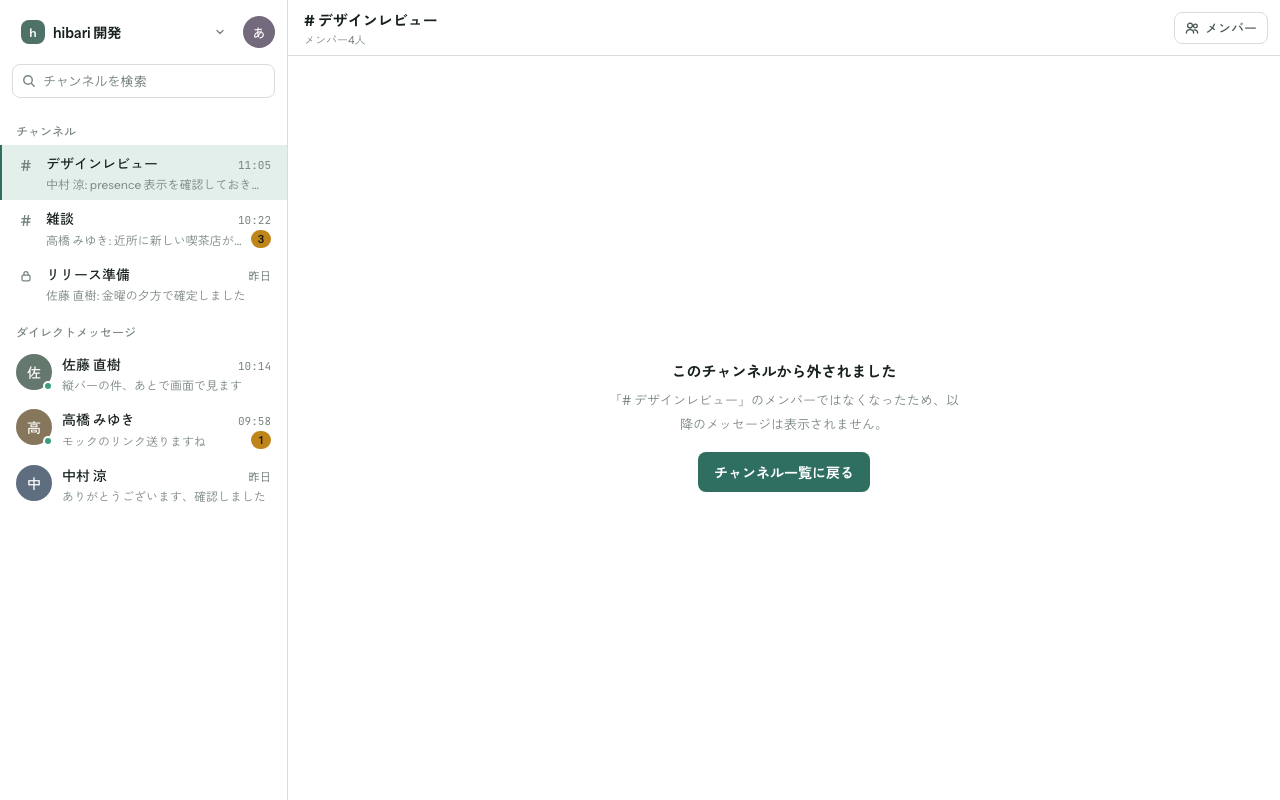
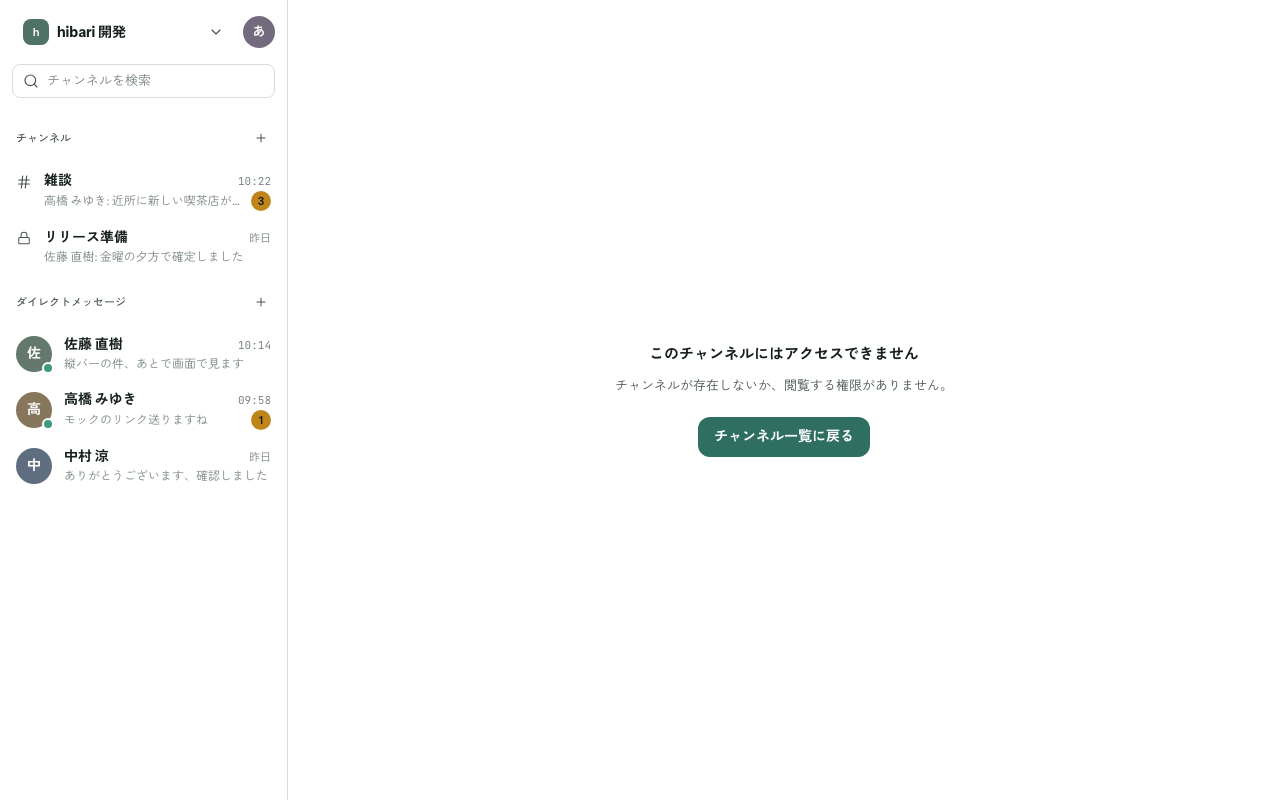
feat(web): 非公開チャンネルから外されたときは名前を出さずに「アクセスできません」だけを出す
外されたことも、チャンネルの名前も言わない（Slack と同じ。読めない非公開ルームを 404 で存在しないものと区別しない
ADR 0011 とも揃う）。ヘッダーごと出さず、メンバーのパネルも閉じ、サイドバーからは開いていてもすぐに消す。

ADR 0035（ADR 0026 の該当部分を置き換える）。chat/removed-from-channel.png は実装から撮り直した。

diff --git a/web/lib/chat/store.ts b/web/lib/chat/store.ts
@@ -118,7 +118,8 @@ export type ChatState = {
   /** ルームごとの、確定していない自分のメッセージ。入力した順（送る順）に並ぶ。 */
   outgoing: Record<string, OutgoingMessage[] | undefined>;
   /**
-   * 自分が外されたルーム（非公開と DM）。開いている間は一覧に残して「外されました」を出す（chat/removed-from-channel.png）。
+   * 自分が外されたルーム（非公開と DM）。一覧からはすぐに消し、開いている間だけ「アクセスできません」を出すために覚えておく
+   * （chat/removed-from-channel.png。ADR 0035）。
    * public ルームは参加していなくても読めるので、ここには入れず、参加していない状態に戻すだけ。
    */
   removedRooms: Record<string, RemovalReason | undefined>;
@@ -694,8 +695,8 @@ export function createChatStore(
     }));
     // もう投稿できない。送信中のものは届かず、再送もできない
     dropOutgoing(roomId);
-    // 開いているルームは、「外されました」を出している間だけ一覧に残す（離れたら setFocus が消す）
-    if (state.focus?.roomId !== roomId) patchRoomList(workspaceId, (ids) => ids.filter((id) => id !== roomId));
+    // 開いていても一覧からはすぐに消す。名前も含めて、もう見せてよいものではない（ADR 0035）
+    patchRoomList(workspaceId, (ids) => ids.filter((id) => id !== roomId));
   }
 
   function removedFromWorkspace(workspaceId: string, reason: RemovalReason) {
@@ -859,12 +860,8 @@ export function createChatStore(
       try {
         const { rooms } = await api.listRooms(workspaceId);
         for (const room of rooms) putRoom(room);
-        update((s) => {
-          // 「外されました」を出しているルームは、一覧を取り直しても開いている間は残す
-          const kept = s.roomLists[workspaceId]?.ids.filter((id) => s.removedRooms[id] && s.focus?.roomId === id) ?? [];
-          const ids = [...rooms.map((r) => r.id), ...kept.filter((id) => !rooms.some((r) => r.id === id))];
-          return { ...s, roomLists: { ...s.roomLists, [workspaceId]: { status: "ready", ids } } };
-        });
+        const ids = rooms.map((r) => r.id);
+        update((s) => ({ ...s, roomLists: { ...s.roomLists, [workspaceId]: { status: "ready", ids } } }));
       } catch (err) {
         update((s) => ({
           ...s,
@@ -1264,15 +1261,13 @@ export function createChatStore(
 
     /**
      * 開いているルームと、その最新を見ているかを知らせる。見始めたら、表示しているところまで既読にする。
-     * 「外されました」を出していたルームから離れたら、一覧から消す。
+     * 「アクセスできません」を出していたルームから離れたら、覚えていたことを忘れる。
      */
     setFocus(focus: { roomId: string; caughtUp: boolean } | null) {
       const previous = state.focus;
       if (previous?.roomId === focus?.roomId && previous?.caughtUp === focus?.caughtUp) return;
       update((s) => ({ ...s, focus }));
       if (previous && previous.roomId !== focus?.roomId && state.removedRooms[previous.roomId]) {
-        const workspaceId = state.rooms[previous.roomId]?.workspace_id;
-        if (workspaceId) patchRoomList(workspaceId, (ids) => ids.filter((id) => id !== previous.roomId));
         // もう一度 URL を開いたら、ほかの読めないルームと同じく 404 で入口に戻す
         update((s) => ({ ...s, removedRooms: { ...s.removedRooms, [previous.roomId]: undefined } }));
       }

diff --git a/web/app/(app)/w/[workspaceId]/(chat)/workspace-screen.test.tsx b/web/app/(app)/w/[workspaceId]/(chat)/workspace-screen.test.tsx
@@ -523,27 +523,30 @@ describe("WorkspaceScreen", () => {
       expect(await screen.findByText("接続が復帰しました")).toBeInTheDocument();
     });
 
-    it("replaces the history with a notice when removed from a private channel", async () => {
+    it("shows only that the channel cannot be accessed when removed from a private channel, without its name", async () => {
       const secret = { ...design, kind: "private" as const };
       rememberLocation("ws-1", "r-design");
       const { sockets } = await connected({
         "GET /api/v1/workspaces/ws-1/rooms": () => json(200, { rooms: [secret, chat, dm] }),
         ...openRoom(secret),
+        "GET /api/v1/rooms/r-design/members?limit=200": () => json(200, { members: [roomMember(naoki)], next_cursor: null }),
       });
+      await userEvent.click(screen.getByRole("button", { name: "メンバー" }));
+      expect(await screen.findByRole("complementary", { name: "メンバー" })).toBeInTheDocument();
 
       sockets.last().receive({
         type: "room.member_removed",
         data: { workspace_id: "ws-1", room_id: "r-design", reason: "removed" },
       });
 
-      const notice = await screen.findByRole("heading", { name: "このチャンネルから外されました" });
+      expect(await screen.findByRole("heading", { name: "このチャンネルにはアクセスできません" })).toBeInTheDocument();
       expect(screen.queryByRole("list", { name: "メッセージ" })).not.toBeInTheDocument();
-      // 開いている間は、サイドバーにもヘッダーにも残す（chat/removed-from-channel.png）
-      expect(screen.getByRole("heading", { name: /デザインレビュー/ })).toBeInTheDocument();
-      expect(sidebar().getByRole("link", { name: /デザインレビュー/ })).toBeInTheDocument();
+      // 名前はヘッダーにもサイドバーにも出さず、「外された」とも言わない。メンバーのパネルも閉じる（ADR 0035）
+      expect(screen.queryByText(/デザインレビュー/)).not.toBeInTheDocument();
+      expect(screen.queryByText(/外され/)).not.toBeInTheDocument();
+      expect(screen.queryByRole("complementary", { name: "メンバー" })).not.toBeInTheDocument();
 
-      // ヘッダーのモバイル用の「戻る」と同じ名前なので、お知らせの中のボタンを押す
-      await userEvent.click(within(notice.parentElement!).getByRole("button", { name: "チャンネル一覧に戻る" }));
+      await userEvent.click(screen.getByRole("button", { name: "チャンネル一覧に戻る" }));
       expect(nav.router.replace).toHaveBeenCalledWith("/w/ws-1");
       expect(lastRoomId("ws-1")).toBeUndefined();
     });

diff --git a/web/app/dev/preview/screens.tsx b/web/app/dev/preview/screens.tsx
@@ -26,8 +26,8 @@ import { ChatLayout } from "@/components/chat/chat-layout";
 import {
   EmptyMessages,
   JoinRoomBar,
-  RemovedFromRoom,
   RemovedFromWorkspace,
+  RoomUnavailable,
   ServerUnavailable,
 } from "@/components/chat/chat-states";
 import { AccountMenu } from "@/components/chat/account-menu";
@@ -149,6 +149,8 @@ function chat({
   createWorkspace,
   mobileView = "room",
 }: ChatOptions = {}) {
+  // 非公開チャンネルから外されたら、一覧からもヘッダーからも名前を消す（ADR 0035）
+  const roomRemoved = body === "removed-room";
   return (
     <>
       <ChatLayout
@@ -157,8 +159,8 @@ function chat({
           <Sidebar
             workspace={workspaces.dev}
             currentUser={currentUser}
-            rooms={noRooms ? [] : rooms}
-            selectedRoomId={selectedRoom.id}
+            rooms={noRooms ? [] : roomRemoved ? rooms.filter((r) => r.id !== selectedRoom.id) : rooms}
+            selectedRoomId={roomRemoved ? undefined : selectedRoom.id}
             roomHref={roomHref}
             search={search}
             onCreateRoom={noop}
@@ -173,13 +175,15 @@ function chat({
         }
         panel={members ? <MembersPanel members={roomMembers} /> : undefined}
       >
-        <RoomHeader
-          kind={selectedRoom.kind}
-          name={selectedRoom.name}
-          memberCount={selectedRoom.memberCount}
-          membersOpen={members}
-          onOpenSettings={noop}
-        />
+        {!roomRemoved && (
+          <RoomHeader
+            kind={selectedRoom.kind}
+            name={selectedRoom.name}
+            memberCount={selectedRoom.memberCount}
+            membersOpen={members}
+            onOpenSettings={noop}
+          />
+        )}
         <ConnectionBanner status={banner ?? null} />
         {body === "timeline" && (
           <Timeline
@@ -192,7 +196,7 @@ function chat({
           />
         )}
         {body === "empty" && <EmptyMessages kind={selectedRoom.kind} name={selectedRoom.name} />}
-        {body === "removed-room" && <RemovedFromRoom kind={selectedRoom.kind} name={selectedRoom.name} />}
+        {roomRemoved && <RoomUnavailable />}
         {body === "removed-workspace" && <RemovedFromWorkspace workspaceName={workspaces.dev.name} />}
         {footer === "composer" && (
           <Composer value="" canSend={false} typingNames={typingNames} attachments={attachments} replyTo={replyTo} />

diff --git a/web/app/(app)/w/[workspaceId]/(chat)/room-view.tsx b/web/app/(app)/w/[workspaceId]/(chat)/room-view.tsx
@@ -3,7 +3,7 @@
 import { useRouter } from "next/navigation";
 import { useEffect, useMemo, useState } from "react";
 
-import { EmptyMessages, JoinRoomBar, RemovedFromRoom, RemovedFromWorkspace } from "@/components/chat/chat-states";
+import { EmptyMessages, JoinRoomBar, RemovedFromWorkspace, RoomUnavailable } from "@/components/chat/chat-states";
 import { Composer } from "@/components/chat/composer";
 import { ConnectionBanner } from "@/components/chat/connection-banner";
 import { DeleteMessageDialog } from "@/components/chat/room-dialogs";
@@ -247,7 +247,7 @@ export function RoomView({
     />
   );
 
-  // 外されたら、ヘッダーは残して本文を差し替える（chat/removed-from-workspace.png、chat/removed-from-channel.png）
+  // ワークスペースから外されたら、ヘッダーは残して本文を差し替える（chat/removed-from-workspace.png）
   if (workspaceRemoval?.reason === "removed") {
     return (
       <>
@@ -256,19 +256,15 @@ export function RoomView({
       </>
     );
   }
+  // 非公開チャンネルから外されたら、ヘッダーごと差し替える。名前も人数も、もう見せてよいものではない（ADR 0035）
   if (removal === "removed") {
     return (
-      <>
-        {header}
-        <RemovedFromRoom
-          kind={room.kind}
-          name={roomName(room)}
-          onBack={() => {
-            forgetLocation(workspaceId, roomId);
-            router.replace(`/w/${workspaceId}`);
-          }}
-        />
-      </>
+      <RoomUnavailable
+        onBack={() => {
+          forgetLocation(workspaceId, roomId);
+          router.replace(`/w/${workspaceId}`);
+        }}
+      />
     );
   }
 

diff --git a/web/components/chat/chat-states.test.tsx b/web/components/chat/chat-states.test.tsx
@@ -1,7 +1,7 @@
 import { render, screen } from "@testing-library/react";
 import { describe, expect, it } from "vitest";
 
-import { EmptyMessages, JoinRoomBar, RemovedFromRoom, RemovedFromWorkspace, ServerUnavailable } from "./chat-states";
+import { EmptyMessages, JoinRoomBar, RemovedFromWorkspace, RoomUnavailable, ServerUnavailable } from "./chat-states";
 
 describe("chat states", () => {
   it.each([
@@ -13,11 +13,12 @@ describe("chat states", () => {
     expect(screen.getByText(text)).toBeInTheDocument();
   });
 
-  it("explains removal from a room", () => {
-    render(<RemovedFromRoom kind="public" name="デザインレビュー" />);
+  it("says only that the room cannot be accessed, not that I was removed", () => {
+    render(<RoomUnavailable />);
 
-    expect(screen.getByRole("heading", { name: "このチャンネルから外されました" })).toBeInTheDocument();
-    expect(screen.getByText(/「# デザインレビュー」のメンバーではなくなった/)).toBeInTheDocument();
+    expect(screen.getByRole("heading", { name: "このチャンネルにはアクセスできません" })).toBeInTheDocument();
+    expect(screen.getByText("チャンネルが存在しないか、閲覧する権限がありません。")).toBeInTheDocument();
+    expect(screen.queryByText(/外され/)).not.toBeInTheDocument();
     expect(screen.getByRole("button", { name: "チャンネル一覧に戻る" })).toBeInTheDocument();
   });
 

diff --git a/web/components/chat/chat-states.tsx b/web/components/chat/chat-states.tsx
@@ -29,13 +29,16 @@ export function EmptyMessages({ kind, name }: { kind: RoomKind; name: string }) 
 }
 
 /**
- * 非公開チャンネルから外された（room.member_removed）。以降のメッセージは届かないので、履歴も隠す。
+ * 開いている非公開チャンネル（と DM）を読めなくなった（room.member_removed。ADR 0035）。履歴も隠す。
+ *
+ * 外されたことも、チャンネルの名前も言わない。非公開チャンネルは名前も含めてメンバーだけのものなので、
+ * 読めなくなった人には「存在しない」と区別できない形で出す（API が 404 で両者を区別しないのと同じ。ADR 0011）。
  */
-export function RemovedFromRoom({ kind, name, onBack }: { kind: RoomKind; name: string; onBack?: () => void }) {
+export function RoomUnavailable({ onBack }: { onBack?: () => void }) {
   return (
     <CenteredNotice
-      title="このチャンネルから外されました"
-      description={`「${roomLabel(kind, name)}」のメンバーではなくなったため、以降のメッセージは表示されません。`}
+      title="このチャンネルにはアクセスできません"
+      description="チャンネルが存在しないか、閲覧する権限がありません。"
       action={<Button onClick={onBack}>チャンネル一覧に戻る</Button>}
     />
   );

diff --git a/web/lib/chat/store.test.ts b/web/lib/chat/store.test.ts
@@ -676,7 +676,7 @@ describe("createChatStore realtime", () => {
       data: { workspace_id: "ws-1", room_id: roomId, reason: "removed" as const },
     });
 
-    it("keeps the open private room in the list with a notice until I leave it, and drops others at once", async () => {
+    it("drops a private room from the list at once, even the open one, and remembers it only while it stays open", async () => {
       const { store } = setup(privateRoomRoutes);
       await store.loadRooms("ws-1");
       store.setFocus({ roomId: "r1", caughtUp: true });
@@ -684,11 +684,11 @@ describe("createChatStore realtime", () => {
       store.applyEvent(removed("r1"));
       store.applyEvent(removed("r2"));
 
+      // 名前も見せないので、開いていても一覧に残さない（ADR 0035）
+      expect(store.getSnapshot().roomLists["ws-1"]?.ids).toEqual([]);
       expect(store.getSnapshot().removedRooms).toMatchObject({ r1: "removed", r2: "removed" });
-      expect(store.getSnapshot().roomLists["ws-1"]?.ids).toEqual(["r1"]);
 
       store.setFocus(null);
-      expect(store.getSnapshot().roomLists["ws-1"]?.ids).toEqual([]);
       expect(store.getSnapshot().removedRooms.r1).toBeUndefined();
     });
 

diff --git a/web/app/(app)/w/[workspaceId]/(chat)/workspace-screen.tsx b/web/app/(app)/w/[workspaceId]/(chat)/workspace-screen.tsx
@@ -32,6 +32,8 @@ export function WorkspaceScreen() {
   const rooms = useChatState((s) => s.rooms);
   const unavailable = useChatState((s) => s.connection.unavailable);
   const removal = useChatState((s) => s.removedWorkspaces[workspaceId]);
+  // 開いている非公開チャンネルから外された。メンバーのパネルも閉じる（名前を見せない。ADR 0035）
+  const roomRemoved = useChatState((s) => (roomId ? s.removedRooms[roomId] !== undefined : false));
 
   const [search, setSearch] = useState("");
   const [switcherOpen, setSwitcherOpen] = useState(false);
@@ -184,7 +186,7 @@ export function WorkspaceScreen() {
           />
         }
         panel={
-          roomId && membersOpen ? <RoomMembers roomId={roomId} onClose={() => setMembersOpen(false)} /> : undefined
+          roomId && membersOpen && !roomRemoved ? <RoomMembers roomId={roomId} onClose={() => setMembersOpen(false)} /> : undefined
         }
       >
         {roomId && (

diff --git a/web/app/dev/preview/catalog.ts b/web/app/dev/preview/catalog.ts
@@ -55,7 +55,7 @@ export const previewCatalog: PreviewEntry[] = [
   { name: "chat/empty-rooms", title: "チャンネルが 0 件" },
   { name: "chat/empty-messages", title: "メッセージが 0 件" },
   { name: "chat/public-preview", title: "public ルームを参加せずに閲覧" },
-  { name: "chat/removed-from-channel", title: "チャンネルから外された" },
+  { name: "chat/removed-from-channel", title: "チャンネルにアクセスできない（外された）" },
   { name: "chat/removed-from-workspace", title: "ワークスペースから削除された" },
   { name: "chat/members-panel", title: "メンバーパネル" },
   { name: "chat/workspace-switcher", title: "ワークスペースの切り替え" },

diff --git a/docs/adr/0035-web-removed-room-no-access.md b/docs/adr/0035-web-removed-room-no-access.md
@@ -1,0 +1,52 @@
+# 0035. 非公開チャンネルから外されたときは「アクセスできません」だけを出す
+
+- 状態: 採用（ADR 0026 の「外されたとき」の非公開チャンネルと DM の部分を置き換える）
+- 日付: 2026-09-19
+
+## 背景
+
+ADR 0026 では、開いている非公開チャンネルから外されたら、サイドバーとヘッダーを残して本文を「このチャンネルから外されました」にし、
+「『{名前}』のメンバーではなくなったため、以降のメッセージは表示されません。」と説明していた（Claude Design の `chat/removed-from-channel.png`）。
+一覧からは、ほかのルームを開くまで消さなかった。
+
+実際に外される側を触ったオーナーから、次の指摘があった（2026-09-19）。
+
+- 非公開チャンネルは、**名前も含めて**メンバーだけのもの。読めなくなった人に名前を出し続けない
+- 「外された」とわざわざ言う必要はない。単にアクセス権がない、という見せ方でよい（Slack と同じ）
+- 開いていたチャンネルも、サイドバーから即座に消してほしい（リロードするまで残っていた）
+
+## 決定
+
+- 開いている非公開チャンネル（と DM）から外されたら、**本文を「このチャンネルにはアクセスできません」
+  「チャンネルが存在しないか、閲覧する権限がありません。」にする**。操作は「チャンネル一覧に戻る」のまま。
+- **ヘッダーごと出さない**（名前・人数・設定・メンバーのボタン）。開いていたメンバーのパネルも閉じる。
+- **サイドバーからは、開いていてもすぐに消す**。一覧を取り直したときに残す処理もやめた。
+- ストアの `removedRooms` は、開いている間だけ「読めなくなった」を覚えておくためにだけ使う（離れたら忘れる。これまでと同じ）。
+- 変えないもの:
+  - public ルームは参加していなくても読めるので、これまでどおり「参加する」の状態に戻すだけ
+  - 自分で抜けた（`reason: left`）ときは、これまでどおりお知らせを出さずに入口に戻す（ADR 0034）
+  - ワークスペースからのキック（`chat/removed-from-workspace.png`）。ワークスペースの名前は、キックされた人も招待を受けた時点で知っているので伏せない
+  - 残ったメンバーが見るシステムメッセージ「{名前} がチャンネルから外されました」（ADR 0033）
+
+## 理由
+
+- **名前を出さない理由**: API は、読めない非公開ルームを「存在しない」と区別しない（404。ADR 0011）。
+  画面だけが名前を出し続けると、この原則と食い違う。外された時点で、その人はもうメンバーではない。
+- **「外された」と言わない理由**: 文言を「存在しないか、権限がない」にしておけば、URL を開き直したとき（404）と同じ意味になり、
+  外されたのか、チャンネルがなくなったのかを本人に説明し分ける必要がない。Slack もこの形。
+- **画面を出す理由（黙って入口に戻さない理由）**: 読んでいる最中に本文が消えて別のチャンネルに飛ぶと、何が起きたか分からない。
+  自分で抜けたとき（ADR 0034）は本人の操作なので黙って戻してよいが、他人の操作では何か一言が要る。
+- **すぐに一覧から消す理由**: ADR 0026 で残していたのは、お知らせに名前を出していたので、どのチャンネルの話かを一覧でも示すため。名前を出さないなら残す理由がない。
+
+## 検討した代替案
+
+- **ヘッダーは残して名前だけ伏せる**: 人数・設定・メンバーのボタンが残り、押しても何もできない。何のチャンネルかも分からないヘッダーは役に立たない。
+- **お知らせを出さずに入口へ戻す**（URL で読めないルームを開いたときと同じ）: 上記のとおり、読んでいる最中の人に何が起きたかが伝わらない。
+- **トーストで「アクセスできなくなりました」と出して入口へ戻す**: トーストの部品もデザインもない。新しい部品を作るより、既存の中央のお知らせで足りる。
+
+## 結果（トレードオフ）
+
+- `chat/removed-from-channel.png` は Claude Design の画面ではなく、実装から撮り直したものになった（ADR 0032 の撮り方）。Claude Design 側も直す。
+- ヘッダーがないので、モバイルではヘッダーの「戻る」もなくなる。お知らせの「チャンネル一覧に戻る」で戻る。
+- URL で読めない非公開チャンネルを開いたとき（404）は、これまでどおり画面を出さずに入口へ戻す。起動時に「最後に開いた場所」が読めなくなっていた場合に、
+  毎回お知らせを出さないため。文言は同じ意味なので、あとで揃えることもできる。

diff --git a/docs/ui/README.md b/docs/ui/README.md
@@ -163,6 +163,17 @@ Claude Design 側に取り込むときは、ほかの追加画面と同じキャ
 - 文言は「{主語} が〜しました」。サーバーは種類とそのときの名前だけを返し、文言はクライアントが作る。
 - サイドバーの最後の 1 行にも、同じ文言をそのまま出す（送信者の名前は前に付けない）。
 
+### 非公開チャンネルから外されたときの画面を変えた
+
+オーナーの判断（2026-09-19、Slack に合わせる）で、Claude Design の `chat/removed-from-channel.png`
+（ヘッダーとサイドバーに名前を残し、「このチャンネルから外されました」と「『{名前}』のメンバーではなくなった」を出す）を置き換えた（ADR 0035）。
+**このスクリーンショットは、実装（`/dev/preview`）を headless Chrome で撮り直したもの**。Claude Design 側も合わせて直す。
+
+- 見出しは「このチャンネルにはアクセスできません」、説明は「チャンネルが存在しないか、閲覧する権限がありません。」。操作は「チャンネル一覧に戻る」のまま。
+- チャンネルの名前はどこにも出さない。ヘッダー（名前・人数・設定・メンバー）ごと出さず、サイドバーからもすぐに消し、メンバーのパネルも閉じる。
+- 「外された」とは言わない。読めなくなった人には、存在しないチャンネルと区別できない形にする。
+- タイムラインのシステムメッセージ「{名前} がチャンネルから外されました」（ADR 0033）は、残ったメンバーが見るものなので変えない。
+
 ### 画面はあるが API がなかったもの（Phase 6 で追加した）
 
 | 画面 | 追加した API |

diff --git a/docs/adr/0026-web-realtime-client.md b/docs/adr/0026-web-realtime-client.md
@@ -62,6 +62,7 @@
 
 ### 外されたとき
 - **非公開チャンネルと DM から外された**: 開いているなら、サイドバーとヘッダーを残して本文を「このチャンネルから外されました」にする（`chat/removed-from-channel.png`）。ほかのルームを開いたら一覧から消す。開いていなければすぐ消す。
+  - **ADR 0035 で変更**: 名前も「外された」も出さず、「このチャンネルにはアクセスできません」だけにする。ヘッダーも出さず、一覧からは開いていてもすぐに消す。
 - **public ルームから抜けた・外された**: 参加していなくても読めるので、「参加する」の状態に戻すだけにする。
 - **自分で抜けた（別のタブ）**: お知らせは出さず、ワークスペースの入口に戻す。
 - **ワークスペースからキックされた**: ワークスペースの一覧からは除くが、その画面を開いている間は名前とサイドバーを残し、本文を「ワークスペースから削除されました」にする（`chat/removed-from-workspace.png`）。「別のワークスペースに移動」で `/` に戻る。
